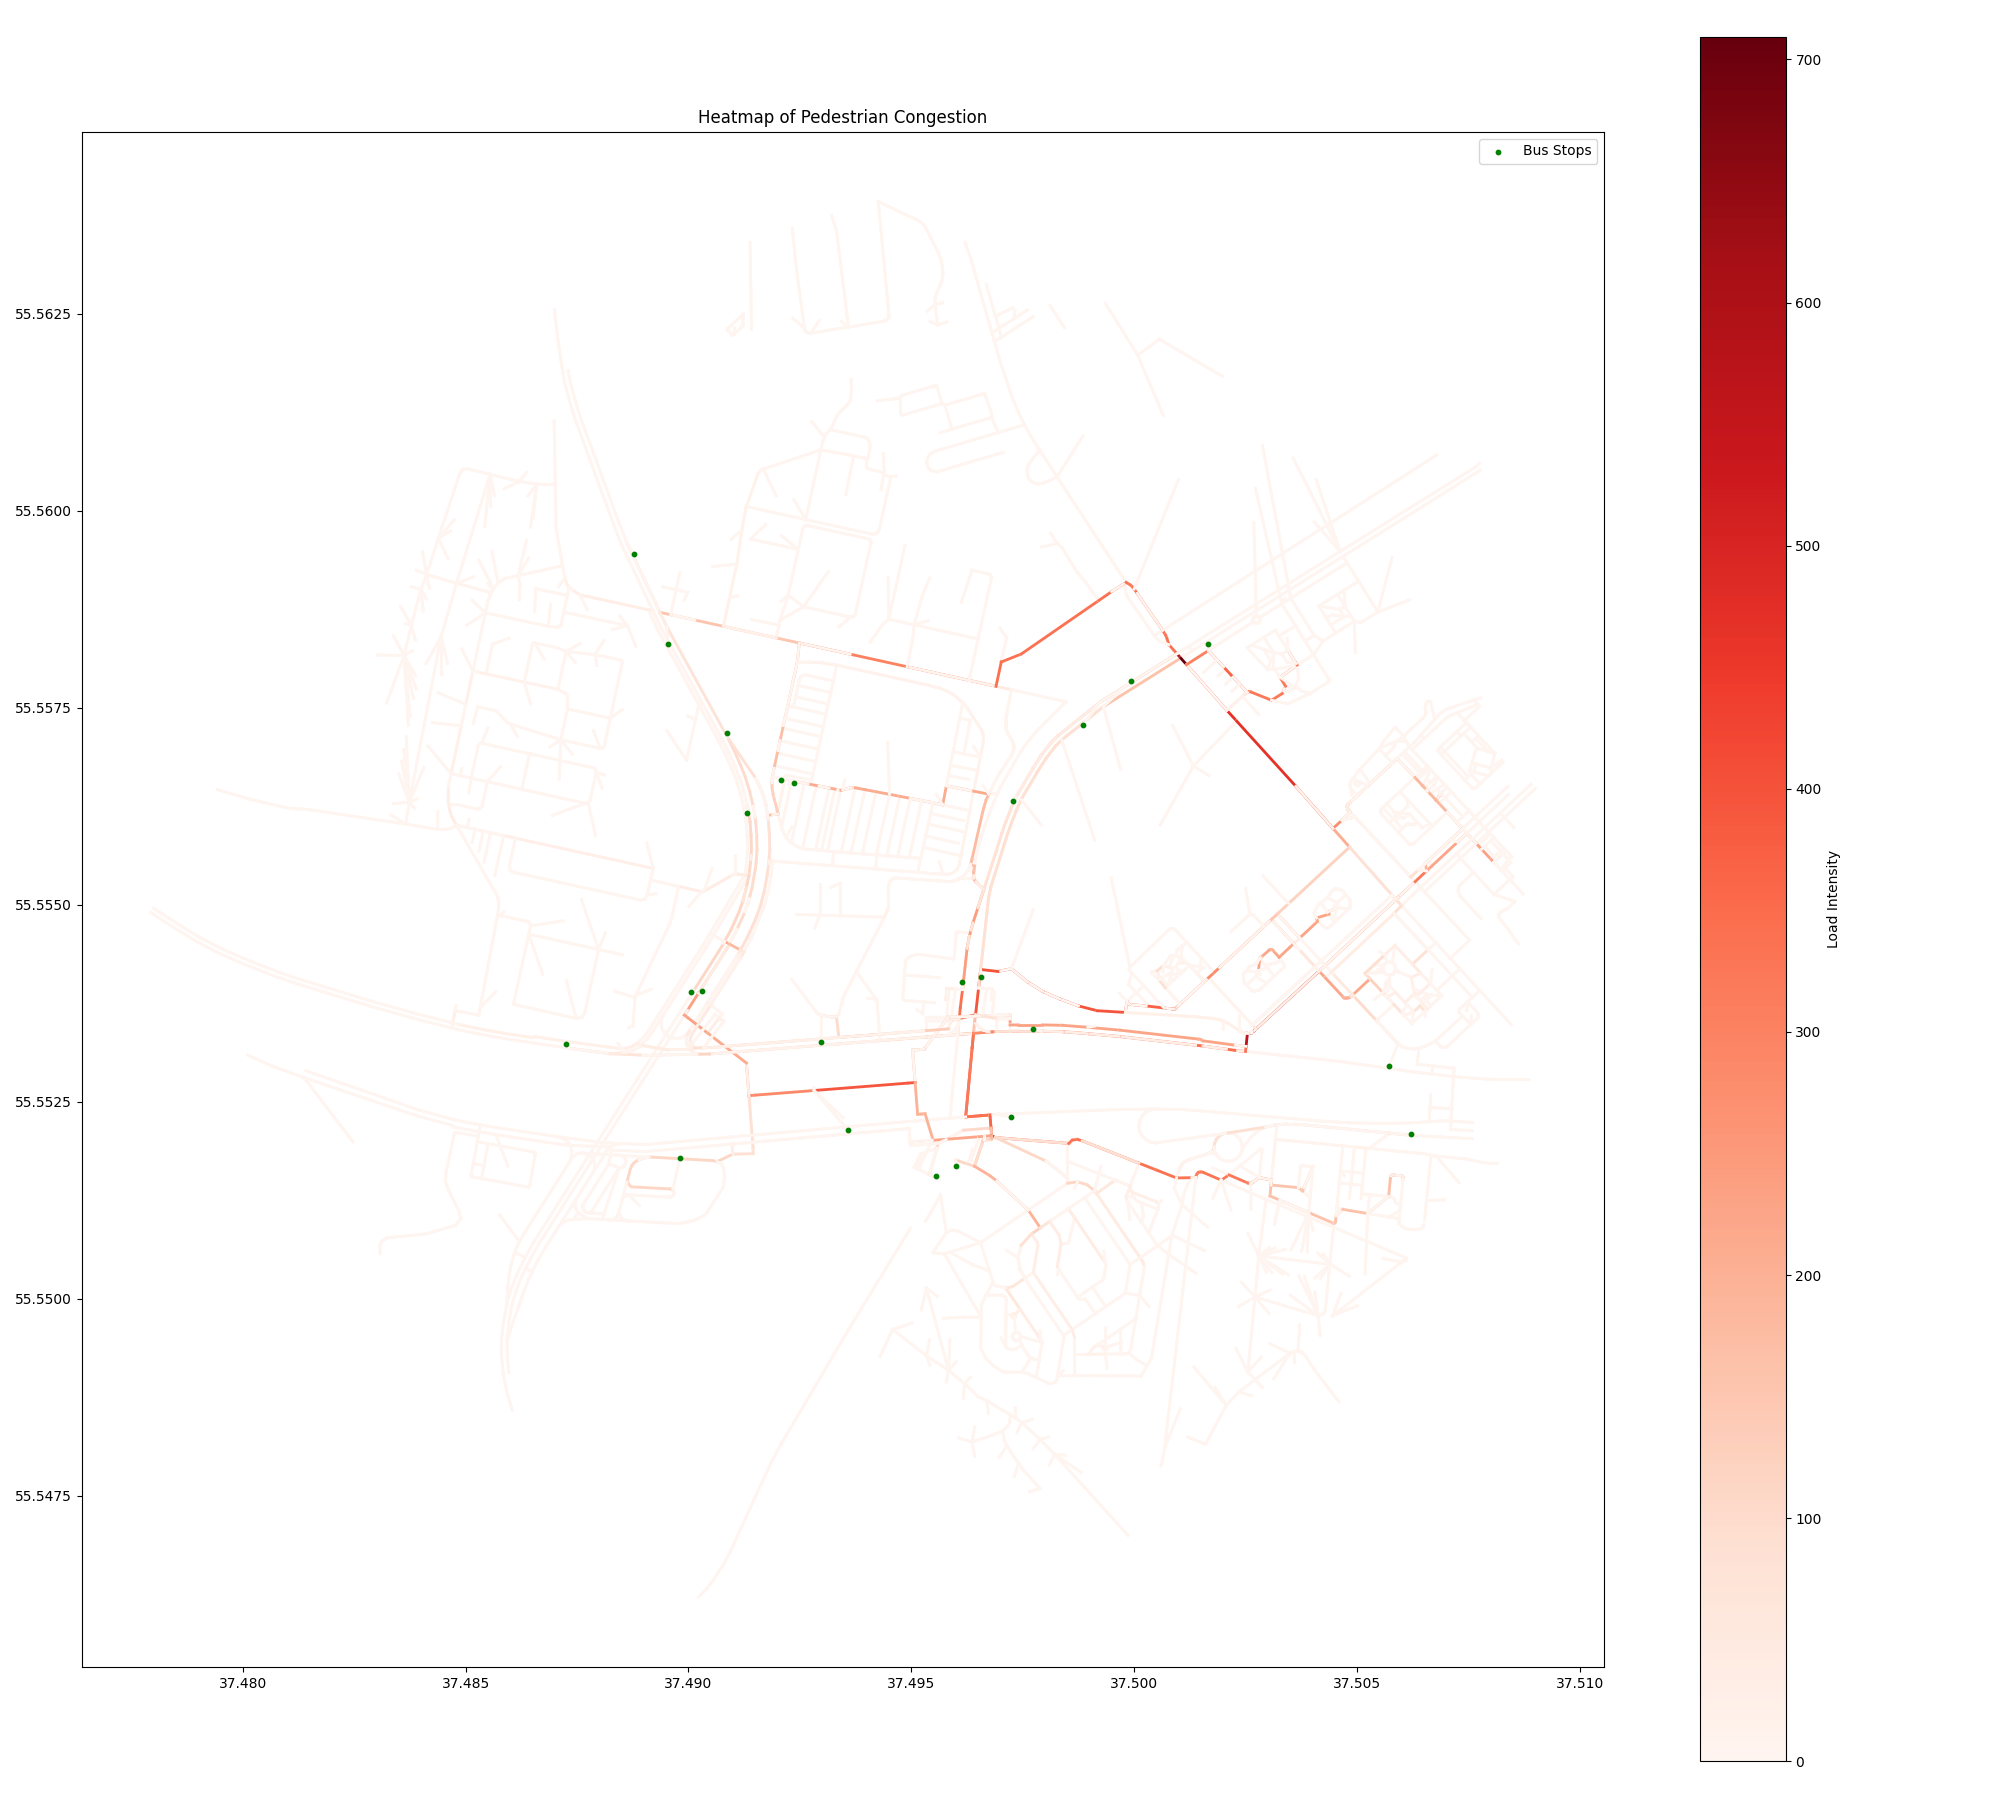
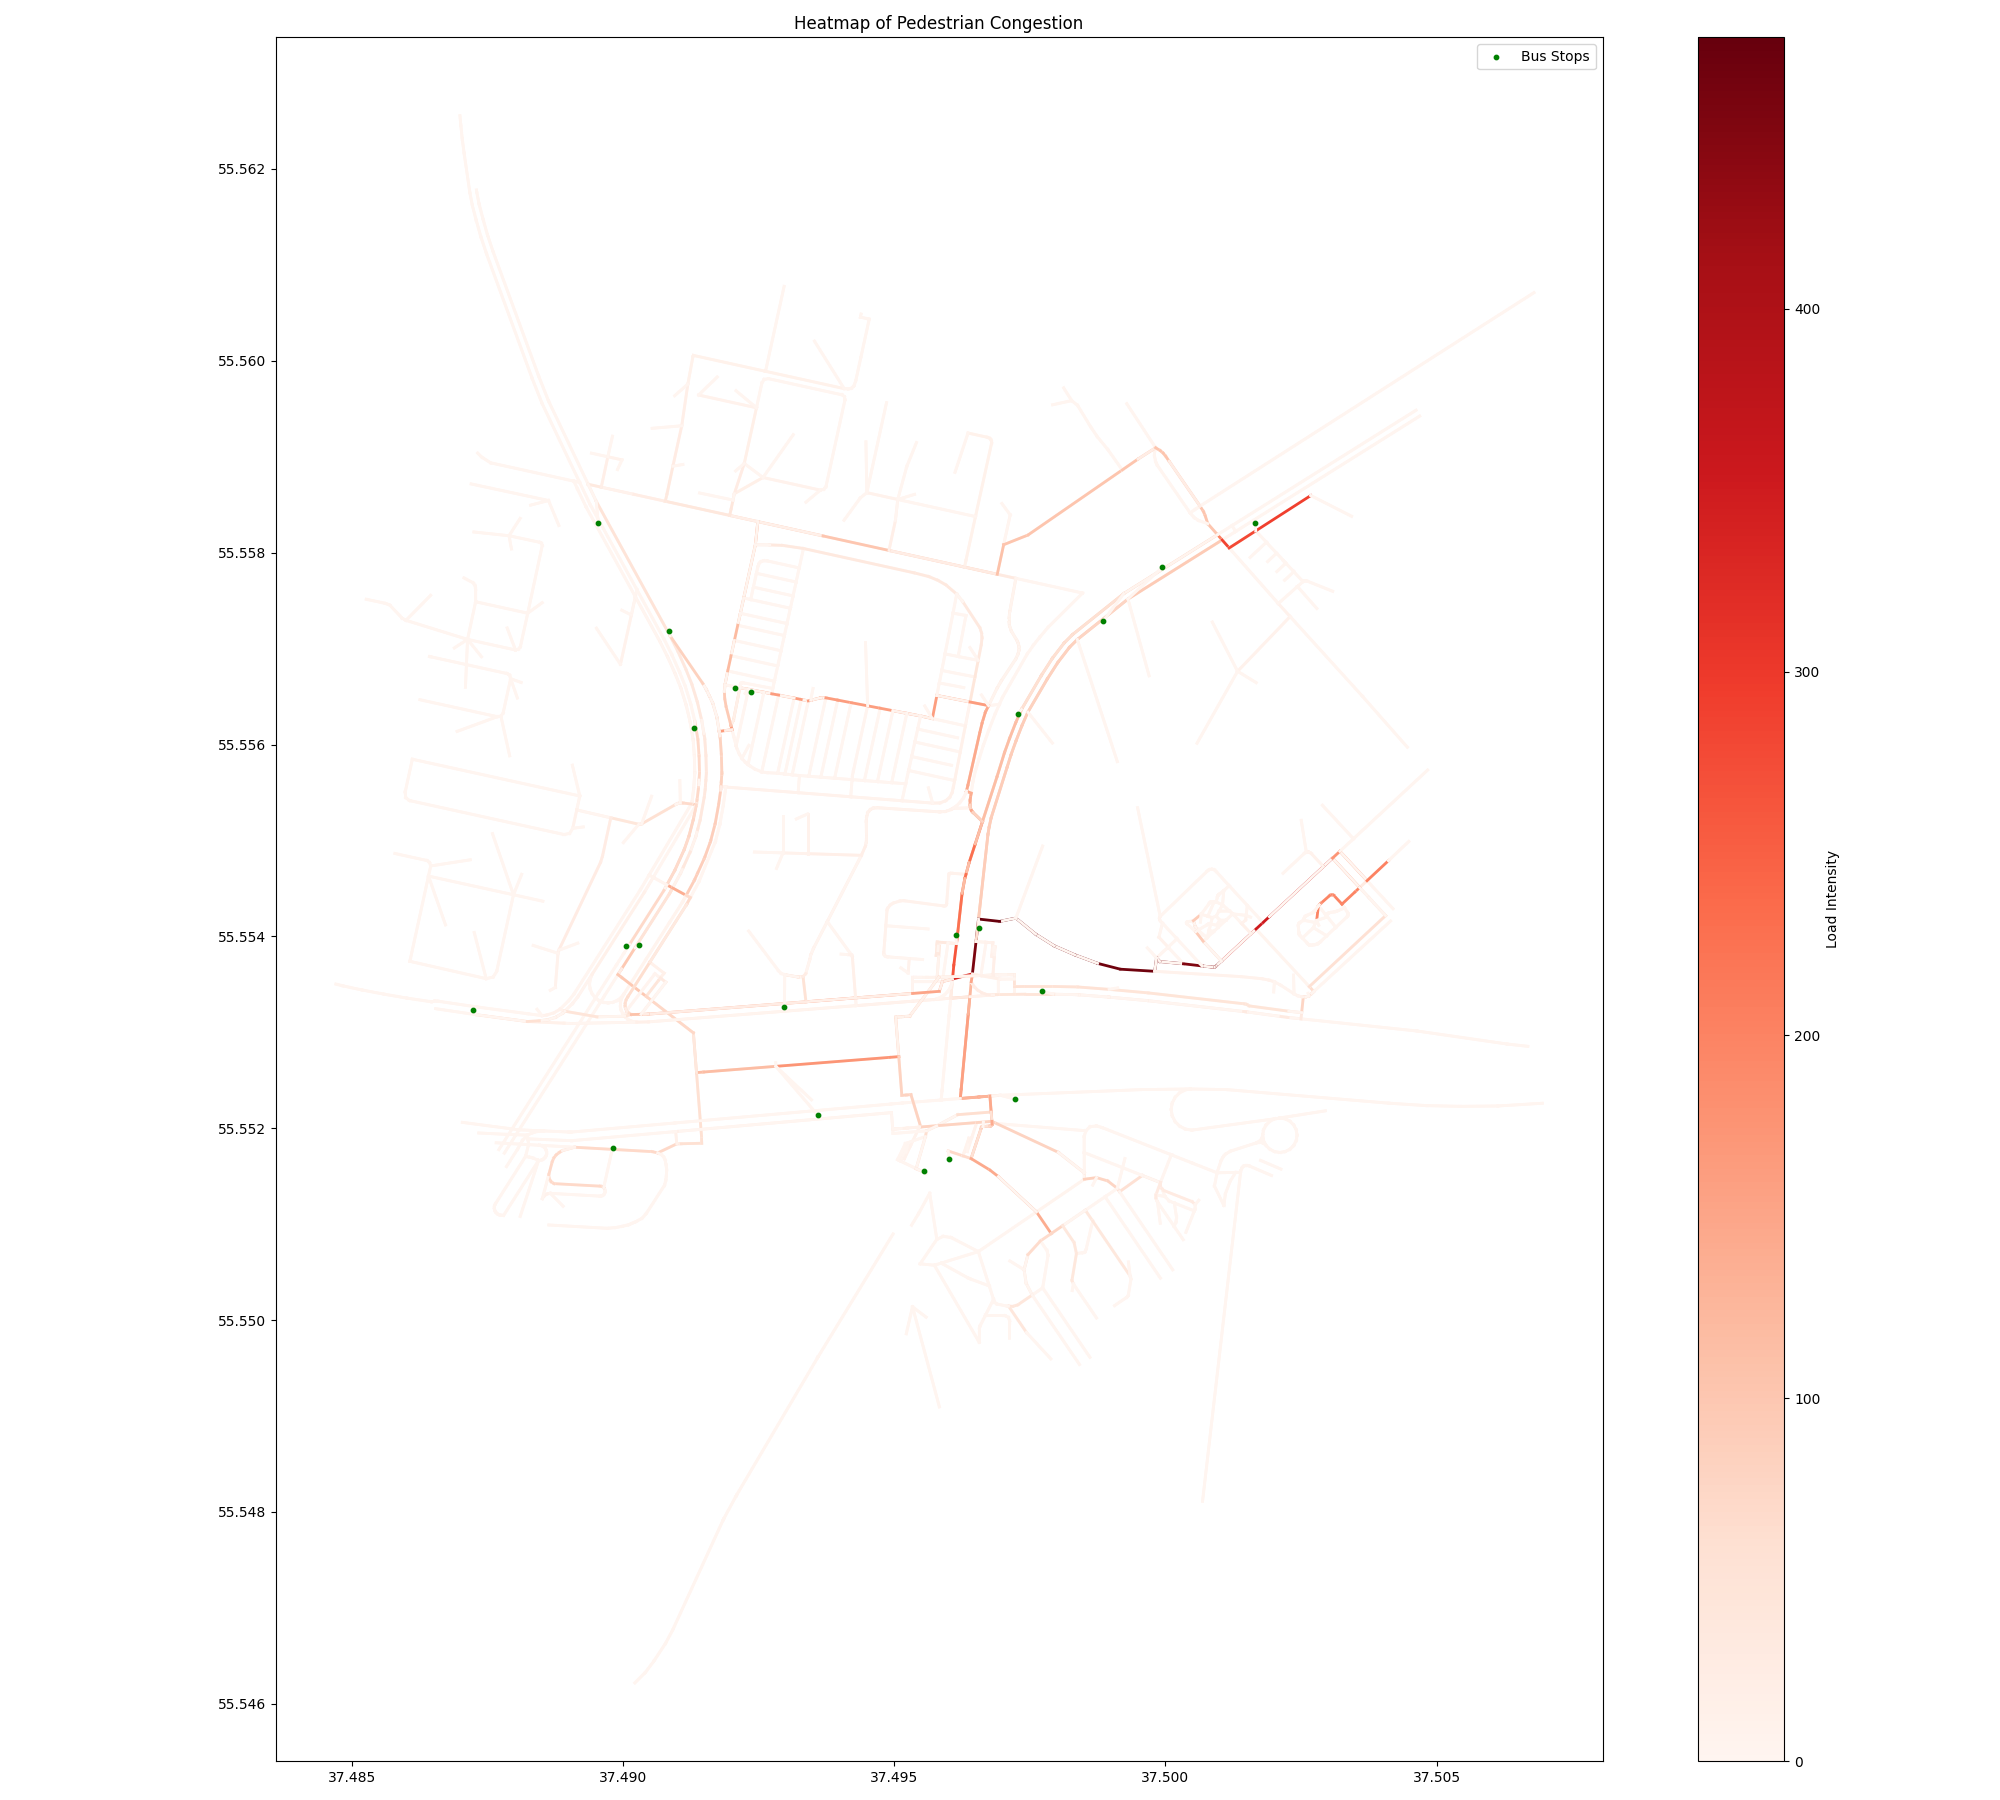
тщ heat map

diff --git a/data_process_new.py b/data_process_new.py
@@ -8,7 +8,7 @@ from tqdm import tqdm
 import pandas as pd
 from pathlib import Path
 from street_graph import (create_graph, add_places_to_graph, calculate_population, summarize_traffic_data,
-                          assign_routes_to_population, calculate_population_loads, update_weights, plot_heatmap, add_population_column_to_houses, cpu_shortest_path_usage, plot_street_usage)
+                          assign_routes_to_population, calculate_population_loads, update_weights, plot_heatmap, add_population_column_to_houses, cpu_shortest_path_usage, plot_street_usage, plot_heatmap_f)
 
 
 users_data = {}
@@ -112,7 +112,7 @@ def find_routes_and_places(folder_path, id, version, lat=37.495, long=55.555):
     update_weights(G, edge_loads)
     summary = summarize_traffic_data(G, edge_loads, route_distribution, buses)
     print(summary)
-    heat_map = plot_heatmap(G, edge_loads)
+    heat_map = plot_heatmap_f(G, edge_loads, buses)
     # Создаем словарь с результатами
     result = {
         "summary": summary,
